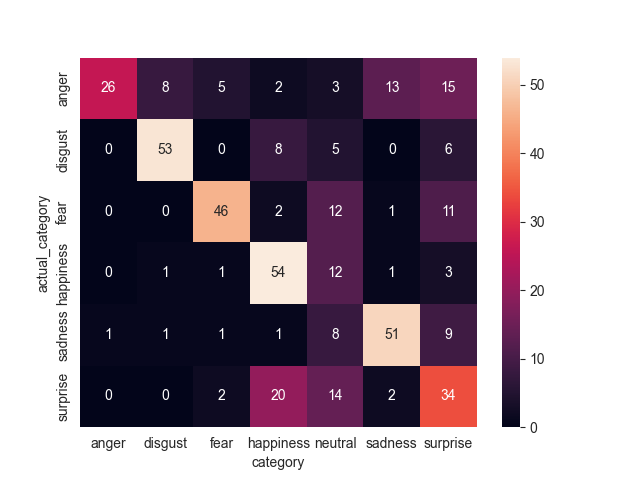
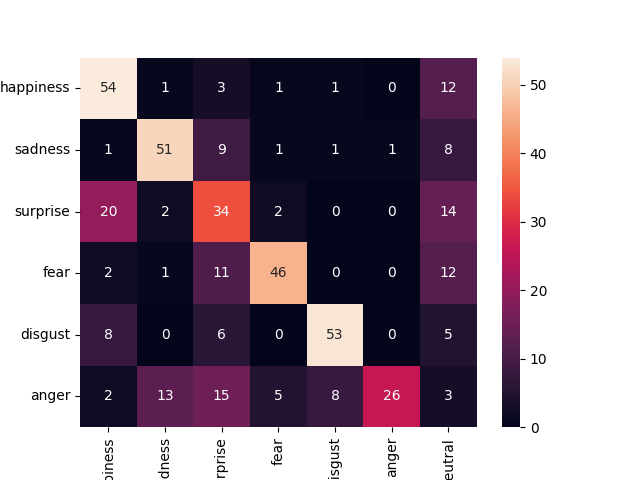
i am fucking tweaking

diff --git a/src/Graphs.py b/src/Graphs.py
@@ -38,6 +38,9 @@ def plot_age_distribution() -> Axes:
 def plot_confusion_matrix() -> Axes:
     df = pd.read_csv("data/questionnaire.csv")
     conf_matrix = pd.crosstab(df['actual_category'], df['category'])
+    sorting = ['happiness', 'sadness', 'surprise', 'fear', 'disgust', 'anger', 'neutral']
+    conf_matrix = conf_matrix.reindex(sorted(conf_matrix.columns, key=lambda x: sorting.index(x)), axis=1)
+    conf_matrix = conf_matrix.reindex(sorted(conf_matrix.index, key=lambda x: sorting.index(x)), axis=0)
     return sns.heatmap(conf_matrix, annot=True)
 
 
@@ -73,30 +76,8 @@ def plot_arousal_distribution(): return plot_distribution("arousal")
 def plot_intensity_distribution(): return plot_distribution("intensity")
 def plot_distribution(key: str) -> Axes:
     df = pd.read_csv("data/questionnaire.csv")
-    sns.set_palette(palette_no_neutral)
-    return sns.kdeplot(df, x=key, hue="actual_category", hue_order=emotion_classes_og_dataset)
-
-
-def plot_true_valence_distribution(): return plot_true_distribution("valence")
-def plot_true_arousal_distribution(): return plot_true_distribution("arousal")
-def plot_true_distribution(key: str) -> Axes:
-    df = pd.read_csv("data/questionnaire.csv")
-    df = load_single_video_data(df, key, normalize=True)
-    sns.set_palette(palette_no_neutral)
-    return sns.kdeplot(df, x="true_" + key, hue="actual_category", hue_order=emotion_classes_og_dataset)
-
-
-def plot_valence_matching(): return plot_matching("valence")
-def plot_arousal_matching(): return plot_matching("arousal")
-def plot_matching(key: str) -> Axes:
-    df = pd.read_csv("data/questionnaire.csv")
-    df = normalize_col(df, key, (1, 7))
-    df = load_single_video_data(df, key, normalize=True)
-    df[key + "_diff"] = df[key] - df["true_" + key]
-    sns.set_palette(palette_no_neutral)
-    ax = sns.kdeplot(df, x=key + "_diff", hue="actual_category", hue_order=emotion_classes_og_dataset)
-    ax.axvline(x=0, color='black', linestyle='--')
-    return ax
+    sns.set_palette(palette_full)
+    return sns.kdeplot(df, x=key, hue="category", hue_order=emotion_classes_vote)
 
 
 def plot_relation_bias_valence() -> FacetGrid: return plot_relation_bias_key("valence")
@@ -110,6 +91,29 @@ def plot_relation_bias_key(key: str) -> FacetGrid:
     sns.set_palette(palette_no_neutral)
     g = sns.lmplot(data=df, x="bias", y=key, col="category", col_order=emotion_classes_og_dataset,
                    hue="category", hue_order=emotion_classes_og_dataset)
+    return g
+
+
+def plot_relation_gender_reaction() -> FacetGrid:
+    df = pd.read_csv("data/questionnaire.csv")
+    df = df.merge(pd.read_csv("data/bias.csv"), on="participant")
+    df = df.melt(id_vars=["participant", "watched_video", "demographic_gender", "category"],
+                 value_vars=["valence", "arousal", "intensity"], var_name="axis", value_name="rating")
+    sns.set_palette(palette_full)
+    g = sns.catplot(data=df, x="demographic_gender", y="rating", hue="category", hue_order=emotion_classes_vote,
+                    col="axis", kind="bar")
+    return g
+
+
+def plot_relation_age_reaction() -> FacetGrid:
+    df = pd.read_csv("data/questionnaire.csv")
+    df = df.merge(pd.read_csv("data/bias.csv"), on="participant")
+    df = df.melt(id_vars=["participant", "watched_video", "demographic_age", "category"],
+                 value_vars=["valence", "arousal", "intensity"], var_name="axis", value_name="rating")
+    sns.set_palette(palette_full)
+    g = sns.FacetGrid(df, col="axis", hue="category", hue_order=emotion_classes_vote)
+    g.map(sns.lineplot, "demographic_age", "rating", err_kws={"alpha": 0.1})
+    g.add_legend()
     return g
 
 
@@ -247,14 +251,12 @@ def plot_correct_guess_relation_gender() -> Axes:
     return ax
 
 
-
-# todo: bias, gender and age for both the facial expression and the actually felt emotion
-
 all_plots = [
     # plot_gender_distribution, plot_age_distribution,
     # plot_confusion_matrix,
-    # plot_valence_comparison, plot_arousal_comparison, plot_intensity_distribution,
-    plot_relation_bias_valence, plot_relation_bias_arousal, plot_relation_bias_intensity,
+    plot_valence_comparison, plot_arousal_comparison, plot_intensity_distribution,
+    # plot_relation_bias_valence, plot_relation_bias_arousal, plot_relation_bias_intensity,
+    # plot_relation_gender_reaction, plot_relation_age_reaction,
     # plot_video_watch_count,
     # plot_pre_reaction,
     # plot_all_reaction_fill,

diff --git a/src/FrameData.py b/src/FrameData.py
@@ -16,18 +16,20 @@ models = [ "affectnet7", "rafdb" ]
 
 
 def has_all_side_cars(video: VideoTarget):
-    return video.has_all_side_cars([f"{model_name}.json" for model_name in models.keys()])
+    return video.has_all_side_cars([f"{model_name}.json" for model_name in models])
 
 
 def load_frame_data(video: VideoTarget) -> ExtractedEmotionSet:
     loaded = {}
-    for model_name in models.keys():
+    for model_name in models:
         loaded[model_name] = load_single_frame_data(video, model_name)
     return loaded
+
 
 def load_single_frame_data(video: VideoTarget, model_name: str) -> ExtractedEmotion:
     with open(video.side_car(f"{model_name}.json"), "r") as f:
         return json.loads(f.read())
+
 
 def load_combined_frame_data(video: VideoTarget) -> pd.DataFrame:
     if video.has_side_car("combined.csv"):
@@ -50,6 +52,7 @@ def combine_frame_data(data: ExtractedEmotionSet) -> pd.DataFrame:
                     "value": frame[axis_index]})
     return pd.DataFrame(row_list)
 
+
 def cache_frame_data(video: VideoTarget, data: Union[ExtractedEmotionSet, pd.DataFrame], skipp_existing: bool = False):
     if isinstance(data, dict):
         for model_name, model_data in data.items():
@@ -58,12 +61,11 @@ def cache_frame_data(video: VideoTarget, data: Union[ExtractedEmotionSet, pd.Dat
                     f.write(json.dumps(model_data))
     if isinstance(data, pd.DataFrame):
         if not skipp_existing or not video.has_side_car("combined.csv"):
-            combined = combine_frame_data(data)
-            combined.to_csv(video.side_car("combined.csv"), index=False)
+            data.to_csv(video.side_car("combined.csv"), index=False)
 
 
 def clear_cache(video: VideoTarget):
-    for appendix in [f"{model_name}.json" for model_name in models.keys()] + ["combined.csv"]:
+    for appendix in [f"{model_name}.json" for model_name in models] + ["combined.csv"]:
         side_car = video.side_car(appendix)
         if os.path.exists(side_car):
             os.remove(side_car)

diff --git a/src/DataQuickAccess.py b/src/DataQuickAccess.py
@@ -1,0 +1,19 @@
+import pandas as pd
+
+
+def filter_from_to_mapping(from_category, to_category):
+    df = pd.read_csv("data/questionnaire.csv")
+    df = df[(df["category"] == to_category) & (df["actual_category"] == from_category)]
+    df = df.drop_duplicates(subset=['watched_video'])
+    og = pd.read_csv("data/CowenKeltnerEmotionalVideos.csv")
+    df = df.merge(og, left_on="watched_video", right_on="Filename")
+    df.to_csv("data/insight/failed_mapping_" + from_category + "_" + to_category + ".csv")
+
+
+def filter_surprise_happiness_failed_mapping():
+    filter_from_to_mapping("surprise", "happiness")
+
+
+def filter_anger_failed_mapping():
+    filter_from_to_mapping("anger", "surprise")
+    filter_from_to_mapping("anger", "sadness")

diff --git a/mainSheTellsYouNotToWorryAbout.py b/mainSheTellsYouNotToWorryAbout.py
@@ -1,6 +1,7 @@
 from tqdm import tqdm
 
-from src.FrameDataExtract import clear_cache, extract_frame_data, cache_frame_data,  has_all_side_cars
+from src.FrameData import cache_frame_data, has_all_side_cars, clear_cache
+from src.FrameDataExtract import extract_frame_data
 from src.VideoUtil import find_all_videos
 
 
@@ -19,4 +20,6 @@ def nuke_all():
 
 
 if __name__ == '__main__':
-   successive_face_analysis()
+    videos = find_all_videos("data/survey")
+    print(len(videos))
+    # successive_face_analysis()

diff --git a/main.py b/main.py
@@ -1,4 +1,7 @@
+import pandas as pd
+
 from src.DataConversion import load_survey_objects, compile_bias, compile_questionnaire, retrieve_compiled_video_logs
+from src.DataQuickAccess import filter_surprise_happiness_failed_mapping, filter_anger_failed_mapping
 from src.Graphs import *
 
 
